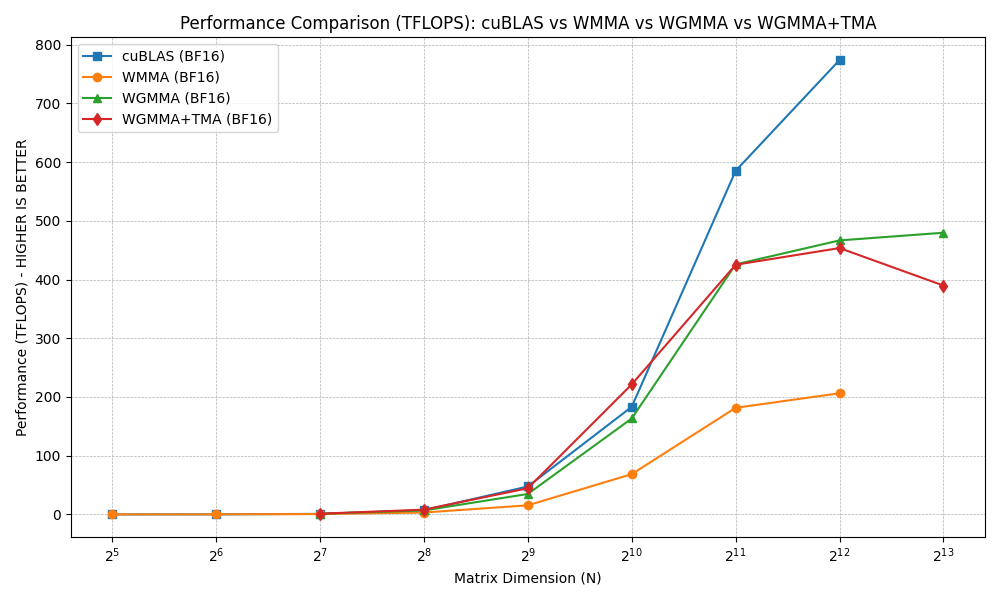
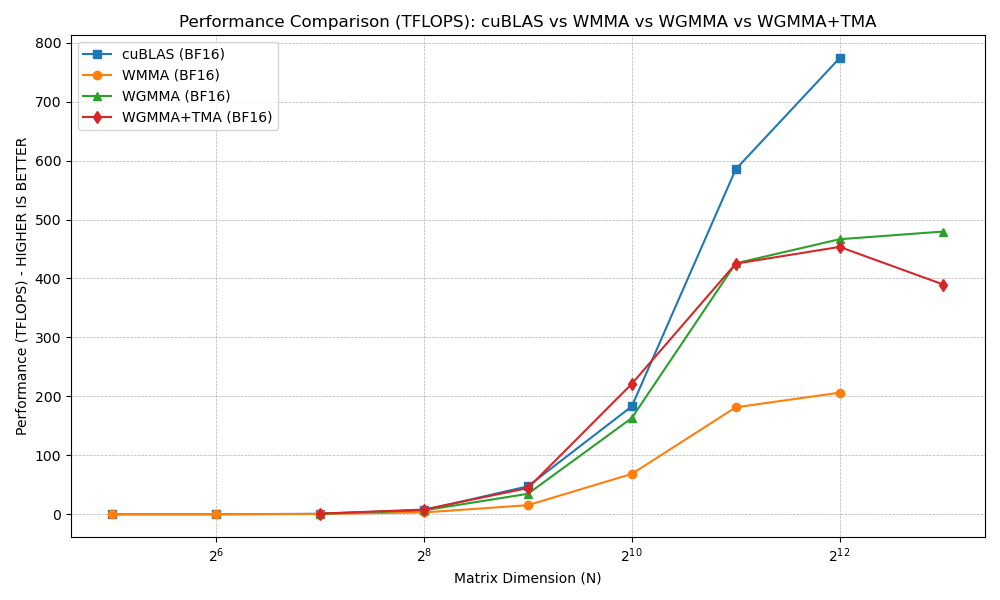
Fixed WG mapping

diff --git a/results/plot_all.py b/results/plot_all.py
@@ -68,5 +68,5 @@ plt.grid(True, which='both', linestyle='--', linewidth=0.5)
 plt.legend()
 plt.tight_layout()
 
-plt.savefig('/root/cuda-assignment/build/benchmark_all.png')
-print("Plot saved to /root/cuda-assignment/build/benchmark_all.png")
+plt.savefig('/home/gpu-sandbox/cuda-assignment/results/benchmark_all.png')
+print("Plot saved to /home/gpu-sandbox/cuda-assignment/results/benchmark_all.png")

diff --git a/results/plot_tflops.py b/results/plot_tflops.py
@@ -63,5 +63,5 @@ plt.grid(True, which='both', linestyle='--', linewidth=0.5)
 plt.legend()
 plt.tight_layout()
 
-plt.savefig('/root/cuda-assignment/build/benchmark_tflops.png')
+plt.savefig('/home/gpu-sandbox/cuda-assignment/results/benchmark_tflops.png')
 print("Saved TFLOPS plot!")
